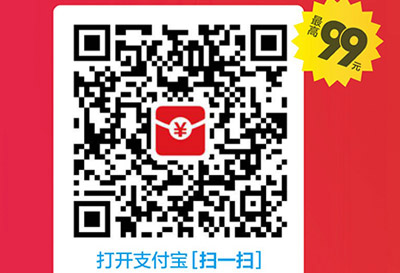
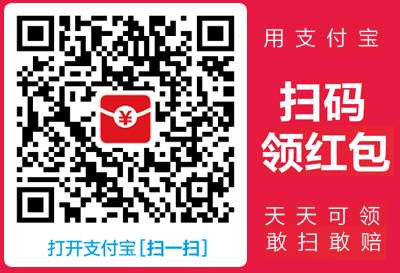
更新红包码

diff --git a/article/fuli.html b/article/fuli.html
@@ -124,12 +124,14 @@
 
                 <div class="tit">领取方法一</div>
                 <p>完整复制下面的红字口令，发送到微信，然后在手机上复制到粘贴板，打开支付宝，即可领取红包。</p>
-                <p><font color="red">【支付宝邀你瓜分10亿现金红包啦！红包天天都能领，周五周六及双十二期间最高可达1212元】红包可在实体门店付款时抵扣#吱口令#长按复制此消息，打开支付宝就能领取！UmSElf11Lt</font></p>
+                <p><font color="red">【抢红包啦！】长按复制此消息，打开最新版支付宝就能领取！吱口令:BT3鑫p琳dM香晟</font></p>
                 <p></p>
                 <div class="tit">领取方法二</div>
                 <p>打开支付宝，“扫一扫”，扫描页面顶部或者最下面的二维码领取红包。</p>
+<!--
                 <div class="tit">注意</div>
-                <p><font color="red"><br>停止帮人红包套现！！！</font><br>由于帮人套现，现在收款码的红包抵扣功能被限制了，如果你之前扫过我的付款码套现，现在不要扫了哦。<br>付款时输入金额，如果没显示折扣，就停止付款吧。<br>已经付款的请加我微信：zhao_linxu，备注：退款。凭付款截图联系我进行退款。</p>
+                <p><font color="red"><br>停止帮人红包套现！！！</font><br>由于帮人套现，现在本人收款码的红包抵扣功能被限制了，如果你之前扫过我的付款码套现，现在不要扫了哦。<br>付款时输入金额，如果没显示折扣，就停止付款吧。<br>已经付款的请加我微信：zhao_linxu，备注：退款。凭付款截图联系我进行退款。</p>
+-->
 <!--
                 <div class="tit">把红包变成现金方法</div>
                 <p>
@@ -169,11 +171,11 @@
             <section>
                 <ul id="da-thumbs" class="da-thumbs tuijian">
                     <li>
-                        <a href="../images/game/fuli/ma.jpg" rel="标题" class="b-link-stripe b-animate-go  thickbox">
+                        <a href="../images/game/fuli/ma.png" rel="标题" class="b-link-stripe b-animate-go  thickbox">
                             <img class="img" src="../images/game/fuli/face.jpg" alt="" />
                             <img src="../images/game/null.png" alt="" />
                             <div>
-                                <h5>红包二维码</h5>
+                                <h5>每天0.1~99元红包</h5>
                                 <span>点击查看大图</span>
                             </div>
                         </a>
